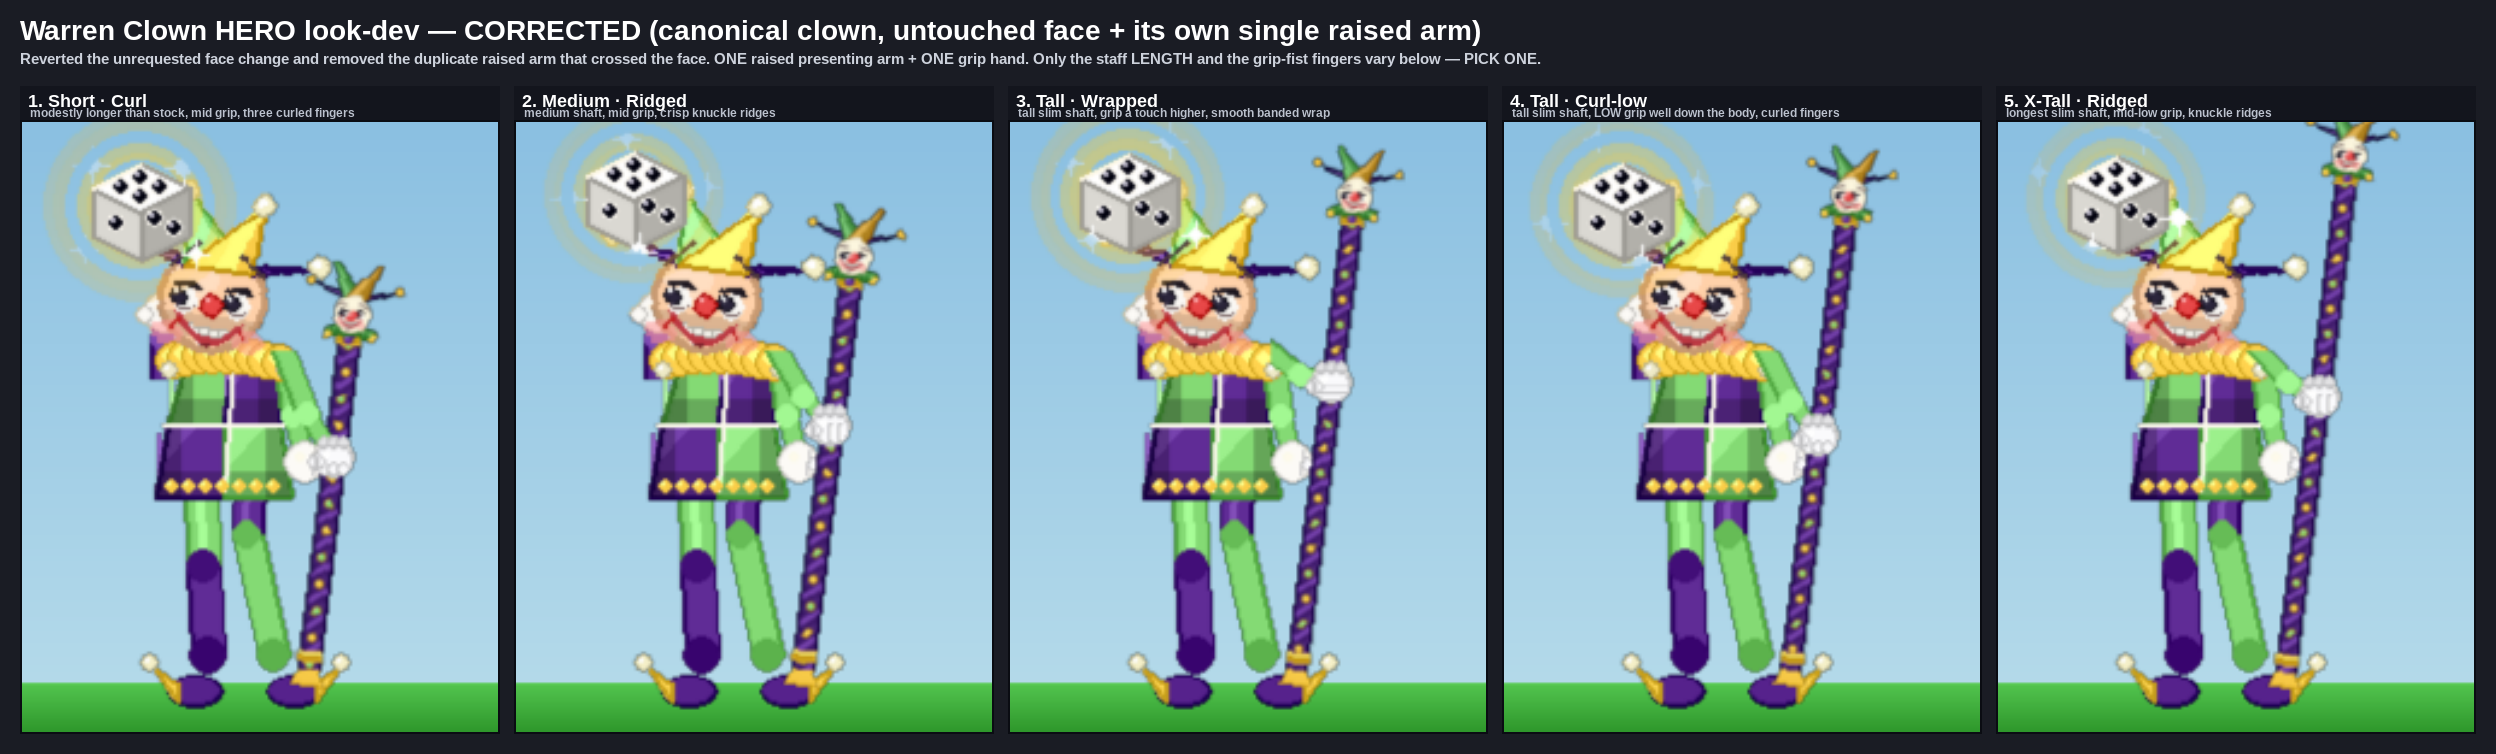
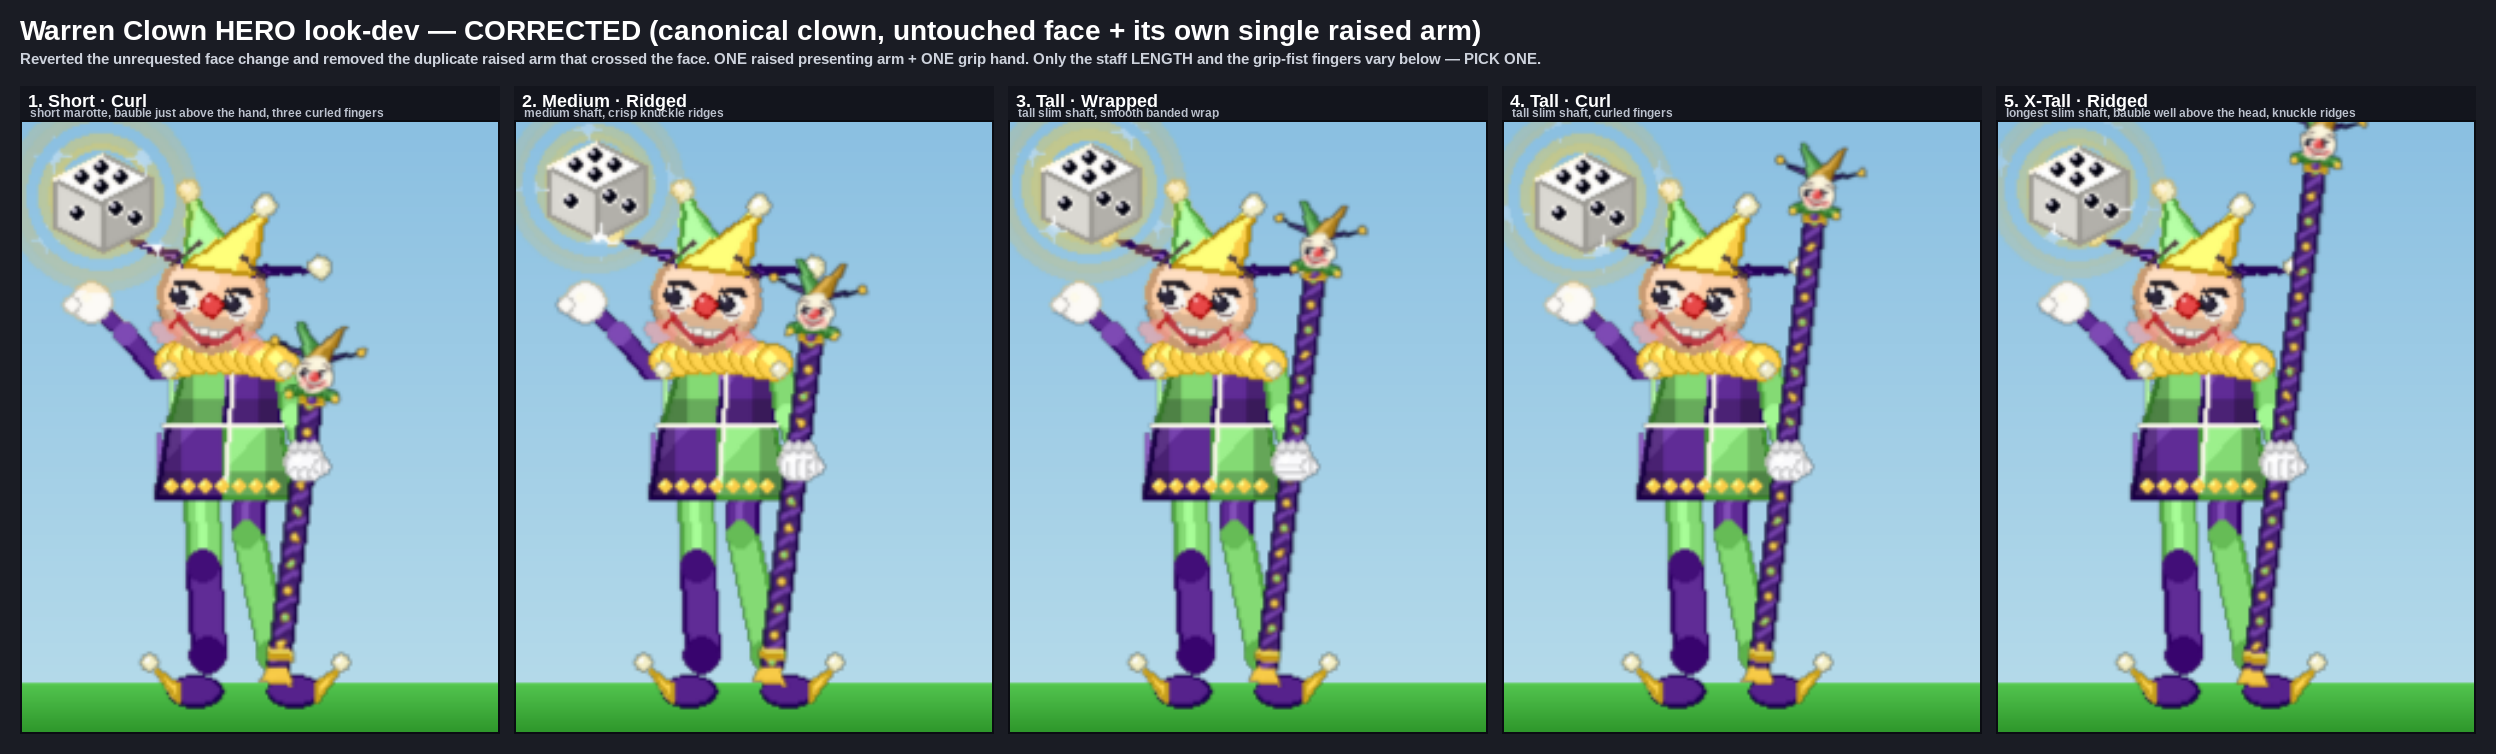
Warren clown: seat staff in the in-game clown's own hand (no second arm)
The corrected sheet still drew a grip arm in addition to build_jester's default
down arm, so the right shoulder showed two arms; the raised arm also used a
shorter reach than the deployed clown. render_clown_staff_final now renders the
exact in-game figure (build_jester with warren_demo's hand_up = cx-60, feet-154)
and places the held marotte INTO the figure's own down hand, drawing the compact
grip fist over its mitt. grip_frac is derived so the bell foot rests on the
ground; total_px (length) is the only staff axis. One arm per side, in-game left
arm, untouched face.

diff --git a/tools/render_warren_sword.py b/tools/render_warren_sword.py
@@ -4715,14 +4715,14 @@ def _render_clown_r4_sheet():
     print("wrote", out_path, f"({sheet_w}x{sheet_h})")
 
 
-def render_clown_staff_final(idx, *, total_px, bauble_px, grip_frac, fingers):
-    """The corrected held-marotte hero panel: the canonical `render_clown_panel`
-    staging UNCHANGED — real hero clown (its own untouched face), the figure's OWN
-    raised arm presenting the floating die, the lean, slippers + palette — with only
-    the two requested changes folded in: the prop is prop_14n at HELD-MAROTTE scale
-    (longer/slimmer) and the near hand wraps the shaft with the compact real-finger
-    fist. There is exactly ONE raised arm (build_jester's) and ONE grip arm; no
-    custom presenting arm is drawn over the figure, so nothing crosses the face."""
+def render_clown_staff_final(idx, *, total_px, bauble_px, fingers):
+    """The corrected held-marotte hero panel: the EXACT in-game clown
+    (`build_jester` with warren_demo's own `hand_up` reach — its raised LEFT arm
+    presenting the die and its single down RIGHT arm) with the staff placed INTO
+    that existing right hand. No extra arm is ever drawn, so there is exactly one
+    arm per side; the marotte's shaft simply passes through the down hand and the
+    compact grip fist is drawn over the figure's own mitt. The only authored
+    changes vs the in-game figure are the held staff and that grip fist."""
     spec = dict(JESTERS[-1][1])
     spec.pop("no_shadow", None)
     ss = CLOWN_SS
@@ -4746,56 +4746,47 @@ def render_clown_staff_final(idx, *, total_px, bauble_px, grip_frac, fingers):
     jester_cx = VIEW_W // 2 - 10
     feet_y = VIEW_FEET_Y
 
-    # The raised hand presents the die high in the sky; build_jester paints its OWN
-    # raised arm reaching for it (the approved presenter read shared with the ten
-    # power-up presenters). The die is drawn AFTER, just above that hand.
-    die_x = jester_cx - 40
-    die_base_y = 34
-    hand_up = (die_x + 10, 80)
+    # EXACT in-game raised-arm reach (warren_demo: hand_up = cx-60, feet-154) so the
+    # left arm matches the deployed clown rather than a shorter, stubbier reach.
+    hand_up = (jester_cx - 60, feet_y - 154)
     build_jester(layer, jester_cx, feet_y, hand_up, **spec)
 
-    # prop_14n at HELD-MAROTTE scale (the only staff change is overall scale + length).
+    # build_jester's OWN down RIGHT hand (baked geometry) — the staff is seated into
+    # it; we never add a second arm. The shaft passes through this point and the
+    # grip fist is drawn over the figure's default mitt.
     hip_y = feet_y - _HIP_OFF
     hip_cx = jester_cx + _HIP_DX
+    r_hand = (hip_cx + 34, hip_y - 4)
+
+    # prop_14n at HELD-MAROTTE scale. grip_frac is DERIVED so the bell foot rests on
+    # the ground while the grip sits in the existing hand — `total_px` (the length)
+    # then governs only how far the bauble rises above the hand.
     prop, p_w, p_h = _held_marotte_surface(total_px, bauble_px)
     rot = -7
-    rotated = pygame.transform.rotate(prop, rot)
-    foot_local = (p_w / 2, p_h - 2)
-    cxr, cyr = p_w / 2, p_h / 2
     rad = math.radians(rot)
-    dx = foot_local[0] - cxr
-    dy = foot_local[1] - cyr
-    rfx = cxr + (dx * math.cos(rad) + dy * math.sin(rad))
-    rfy = cyr + (-dx * math.sin(rad) + dy * math.cos(rad))
-    rfx += (rotated.get_width() - p_w) / 2
-    rfy += (rotated.get_height() - p_h) / 2
-    plant_x = jester_cx + 30
-    plant_y = ground_y - 1
-    prop_ox = int(plant_x - rfx)
-    prop_oy = int(plant_y - rfy)
+    grip_frac = max(0.30, 1.0 - (ground_y - r_hand[1]) / (p_h * math.cos(rad)))
+    rotated = pygame.transform.rotate(prop, rot)
+    cxr, cyr = p_w / 2, p_h / 2
+
+    def _mapped(lx, ly):
+        ldx, ldy = lx - cxr, ly - cyr
+        rx = cxr + (ldx * math.cos(rad) + ldy * math.sin(rad)) + (rotated.get_width() - p_w) / 2
+        ry = cyr + (-ldx * math.sin(rad) + ldy * math.cos(rad)) + (rotated.get_height() - p_h) / 2
+        return rx, ry
+
+    grip_rx, grip_ry = _mapped(p_w / 2, p_h * grip_frac)
+    prop_ox = int(r_hand[0] - grip_rx)
+    prop_oy = int(r_hand[1] - grip_ry)
     layer.blit(rotated, (prop_ox, prop_oy))
 
-    # Grip point on the slim shaft BODY, below the lobed head.
-    grip_local = (p_w / 2, p_h * grip_frac)
-    gdx = grip_local[0] - cxr
-    gdy = grip_local[1] - cyr
-    rgx = cxr + (gdx * math.cos(rad) + gdy * math.sin(rad))
-    rgy = cyr + (-gdx * math.sin(rad) + gdy * math.cos(rad))
-    rgx += (rotated.get_width() - p_w) / 2
-    rgy += (rotated.get_height() - p_h) / 2
-    grip_x = prop_ox + rgx
-    grip_y = prop_oy + rgy
+    # The compact real-finger fist over the figure's own mitt (matches the down
+    # hand's thumb side), so the existing hand reads as gripping the shaft.
+    _r3_grip_fist(layer, (int(r_hand[0]), int(r_hand[1])), (250, 250, 252),
+                  fingers=fingers, side=-1)
 
-    # Re-pose only the near/lower arm onto the grip + the compact real-finger fist;
-    # the raised arm above is build_jester's own and is left untouched.
-    r_sh = (hip_cx + 25, hip_y - 50)
-    grip_hand = (int(grip_x), int(grip_y))
-    light = spec["light"]
-    _arm(layer, r_sh, grip_hand, 8, light)
-    _r3_grip_fist(layer, grip_hand, (250, 250, 252), fingers=fingers, side=1)
-
-    # The floating power-up die presented above the raised hand (no roll-result inset).
-    draw_cupped_die(layer, die_x, die_base_y, idx * 1.7 + 2.0, show_inset=False)
+    # The floating power-up die presented just beyond the extended raised hand (no
+    # roll-result inset). Its aura reads it as an airborne pickup, not a held prop.
+    draw_cupped_die(layer, jester_cx - 56, 30, idx * 1.7 + 2.0, show_inset=False)
 
     big.blit(pygame.transform.smoothscale(layer, (bw, bh)), (0, 0))
     return pygame.transform.smoothscale(big, (VIEW_W, VIEW_H))
@@ -4806,16 +4797,16 @@ def render_clown_staff_final(idx, *, total_px, bauble_px, grip_frac, fingers):
 # requested axes: staff LENGTH (held-marotte scale) and the grip-fist finger style
 # / grip height on the shaft.
 _CLOWN_FINAL_VARIANTS = [
-    ("Short · Curl",   dict(total_px=176, bauble_px=16, grip_frac=0.46, fingers="curl"),
-     "modestly longer than stock, mid grip, three curled fingers"),
-    ("Medium · Ridged", dict(total_px=200, bauble_px=16, grip_frac=0.46, fingers="ridged"),
-     "medium shaft, mid grip, crisp knuckle ridges"),
-    ("Tall · Wrapped",  dict(total_px=224, bauble_px=15, grip_frac=0.44, fingers="wrapped"),
-     "tall slim shaft, grip a touch higher, smooth banded wrap"),
-    ("Tall · Curl-low", dict(total_px=224, bauble_px=15, grip_frac=0.54, fingers="curl"),
-     "tall slim shaft, LOW grip well down the body, curled fingers"),
-    ("X-Tall · Ridged", dict(total_px=242, bauble_px=15, grip_frac=0.50, fingers="ridged"),
-     "longest slim shaft, mid-low grip, knuckle ridges"),
+    ("Short · Curl",   dict(total_px=150, bauble_px=16, fingers="curl"),
+     "short marotte, bauble just above the hand, three curled fingers"),
+    ("Medium · Ridged", dict(total_px=176, bauble_px=16, fingers="ridged"),
+     "medium shaft, crisp knuckle ridges"),
+    ("Tall · Wrapped",  dict(total_px=200, bauble_px=15, fingers="wrapped"),
+     "tall slim shaft, smooth banded wrap"),
+    ("Tall · Curl",    dict(total_px=224, bauble_px=15, fingers="curl"),
+     "tall slim shaft, curled fingers"),
+    ("X-Tall · Ridged", dict(total_px=246, bauble_px=15, fingers="ridged"),
+     "longest slim shaft, bauble well above the head, knuckle ridges"),
 ]
 
 
